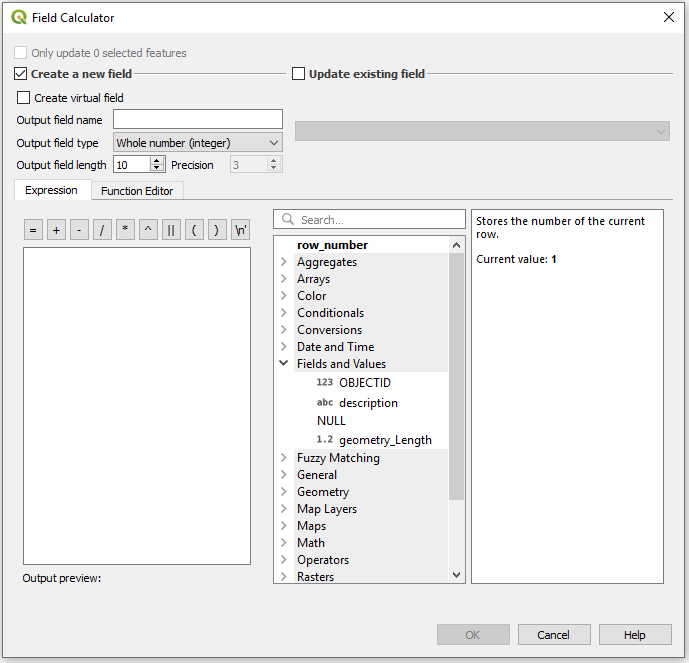
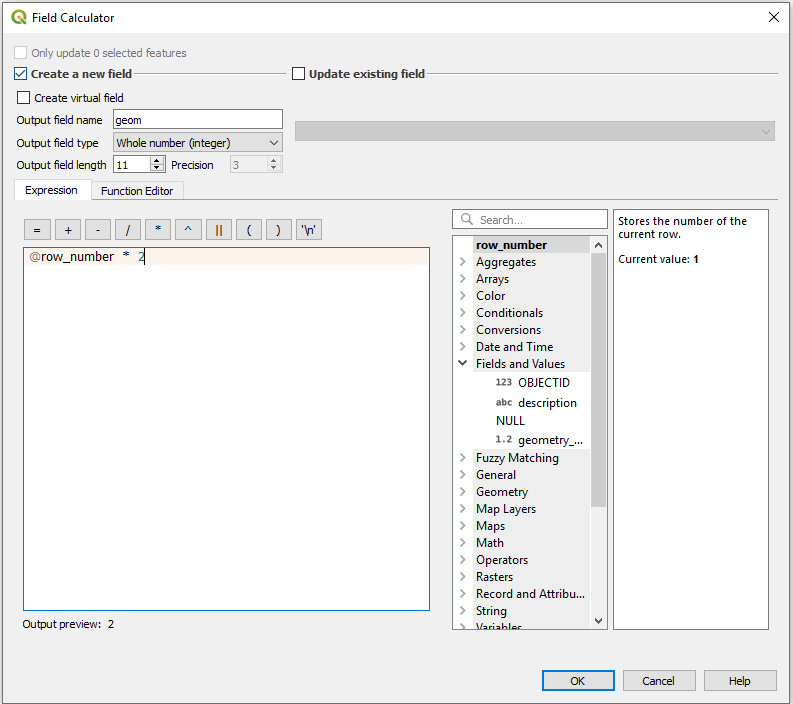
add field added

Changed region(s): [[0.0, 0.0, 1.0, 1.0], [0.3657, 0.0905, 0.6401, 0.1207]]

diff --git a/Basics/tables.html b/Basics/tables.html
@@ -39,8 +39,21 @@
             This will add an empty field.<br>
             Or the Field Calculator button (<kbd>Ctrl</kbd>+<kbd>I</kbd>) <img src="img/tables_calc_db0.png"  height=25px width=25px/> which is located here:<br>
             </br><img src="img/tables_db6.png" height=40px width=560px/></br><br>
-            If you chose to add an empty field, all you have to do now is select the name, type of field you want, its length, which can limit you in the future.<br>
+            If you chose to add an empty field, all you have to do now is select the name, type of field you want, its length, 
+            which can limit you in the future, so try to pick a length which you know should cover all possible data. If you are choosing to use a Decimal Number,
+             make sure you specify the number of digits to appear after the decimal point in the percision box, this will count as part of the length you specify. <br>
         </br><img src="img/tables_add_db1.png" height=235px width=265px/></br><br>
+        If you chose to calculate a New field, you will face this window:<br>
+        </br><img src="img/tables_calc_db1.png" height=660px width=690px/></br><br>
+        Here you will first have to choose wether to create a new field or update an existing one.
+        Assuming we are adding a new field, here too you will need to enter a field name, type and length.
+        now you can either keep the formula blank or use one of the values on the side, for example a calculation of the row number times 2, which i performed by clicking on the row number in the options and typing "* 2"<br>
+        </br><img src="img/tables_calc_db2.png" height=700px width=790px/></br><br>
+        Another formula which might be useful for you is getting the "WKT" or Well Known Text description of your geometry.
+        This can be used like a GeoJSON geometry object or for calculations with Spatial SQL (PostGIS will read this as geometry).<br>
+        The formula is <code>geom_to_wkt(  $geometry )</code> when <b>geom_to_wkt</b> is the function that transforms the geometry data (<i>$geometry</i>) into well known (and readable) text.<br>
+        </br><img src="img/tables_calc_db3.png" height=660px width=690px/></br><br>
+        And thats it, Simple and easy to use, and now you know how to do that in Open Source.</br>
         </p>
         </br><a href="#top">Go back to the top</a><br>
         <h2 id="remove">Removing Columns</h2>

diff --git a/index.html b/index.html
@@ -4,6 +4,7 @@
 </head>
 <body>
 <h2>Arc2QGIS - For each ArcGIS tool there is a replacement</h2>
+<img src="images/arc2qgis.png" height=81.66px width=110px/>
 <p>Welcome, </br>
 	This guide-in-the-making is meant for ArcGIS users wanting to make the switch to open source solutions.</br>
 	If you know how to do operations in ArcGIS and want to know how to them in QGIS, GDAL, GEOS, GRASS or any other way, you're welcome to see if the solution is already here.</br>

diff --git a/css/base_styles.css b/css/base_styles.css
@@ -1,5 +1,5 @@
 html, body {
-    background-image: url("../images/bg_logos.GIF");
+    background-image: url("../images/bg_logos.gif");
     background-repeat: repeat;
     font-size: 120%;
 }
